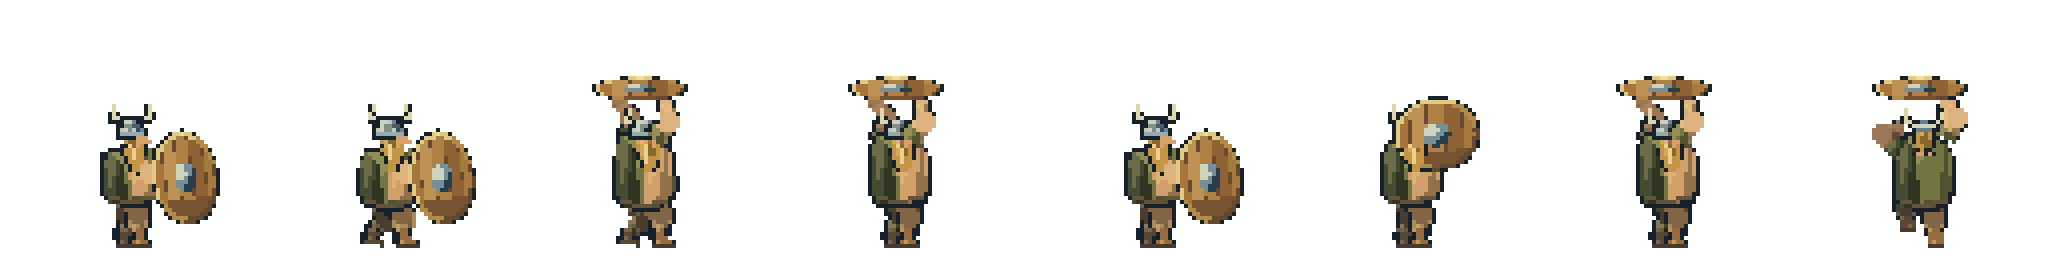
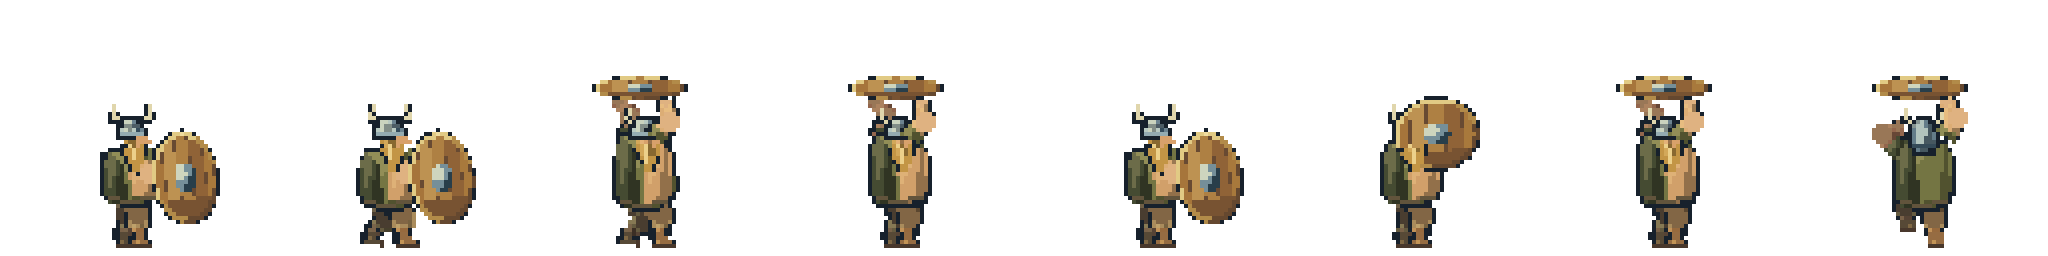
Add reviewed native Viking motion skin with eight distinct gait families

diff --git a/VIKINGS85-FIX.md b/VIKINGS85-FIX.md
@@ -62,3 +62,8 @@ Distribution overlay:hero-art.js,hero-frames.js,hero-skins.js,
 native85-registration.js, plus assets/vikings85-native/{erik,baleog,olaf}-native.png.
 Parent-owned game.js/projectile-collision.js supply skin/collision binding.
 All existing skin assets and accepted84 sprite-render cadence must remain.
+
+Final independent verdict: both the native full-source gate and the optional
+actual-game runtime gate are ACCEPTED. This approves native85 as a selectable
+alternative; it does not approve the retained failed imagegen85 originals or
+replace the existing default skin without a separate art-direction decision.
